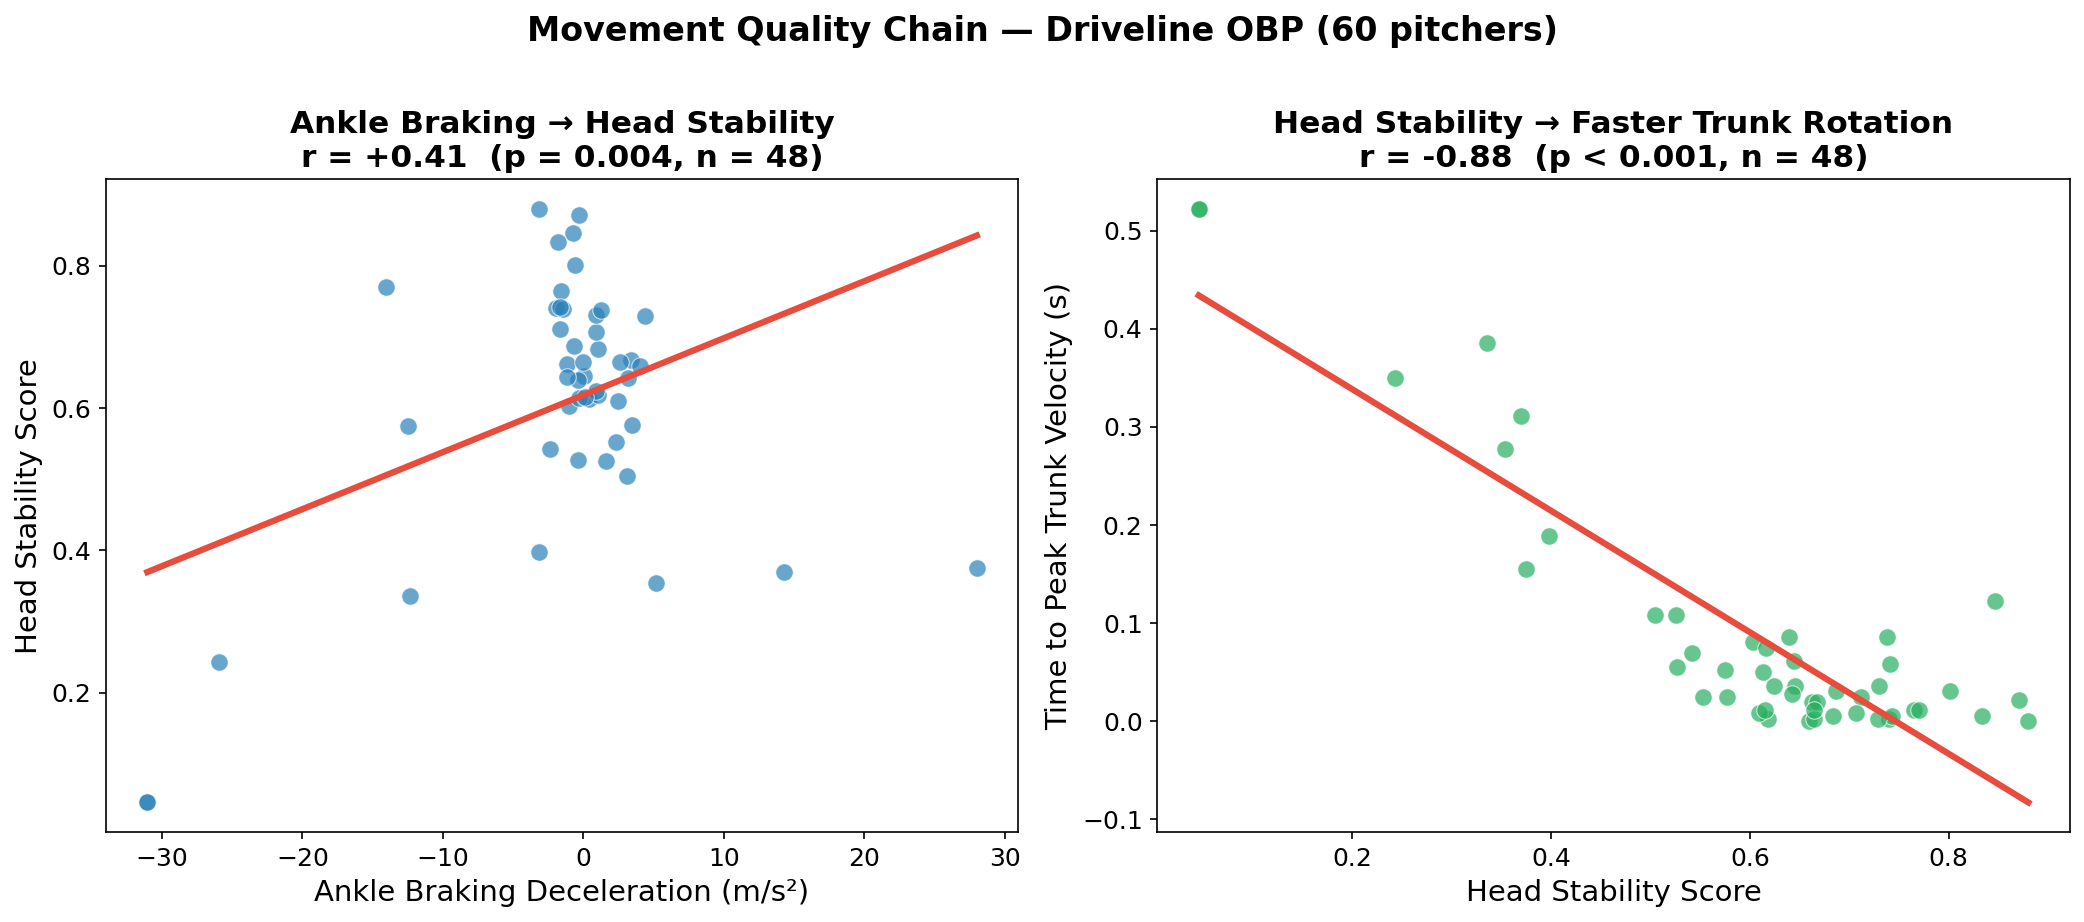
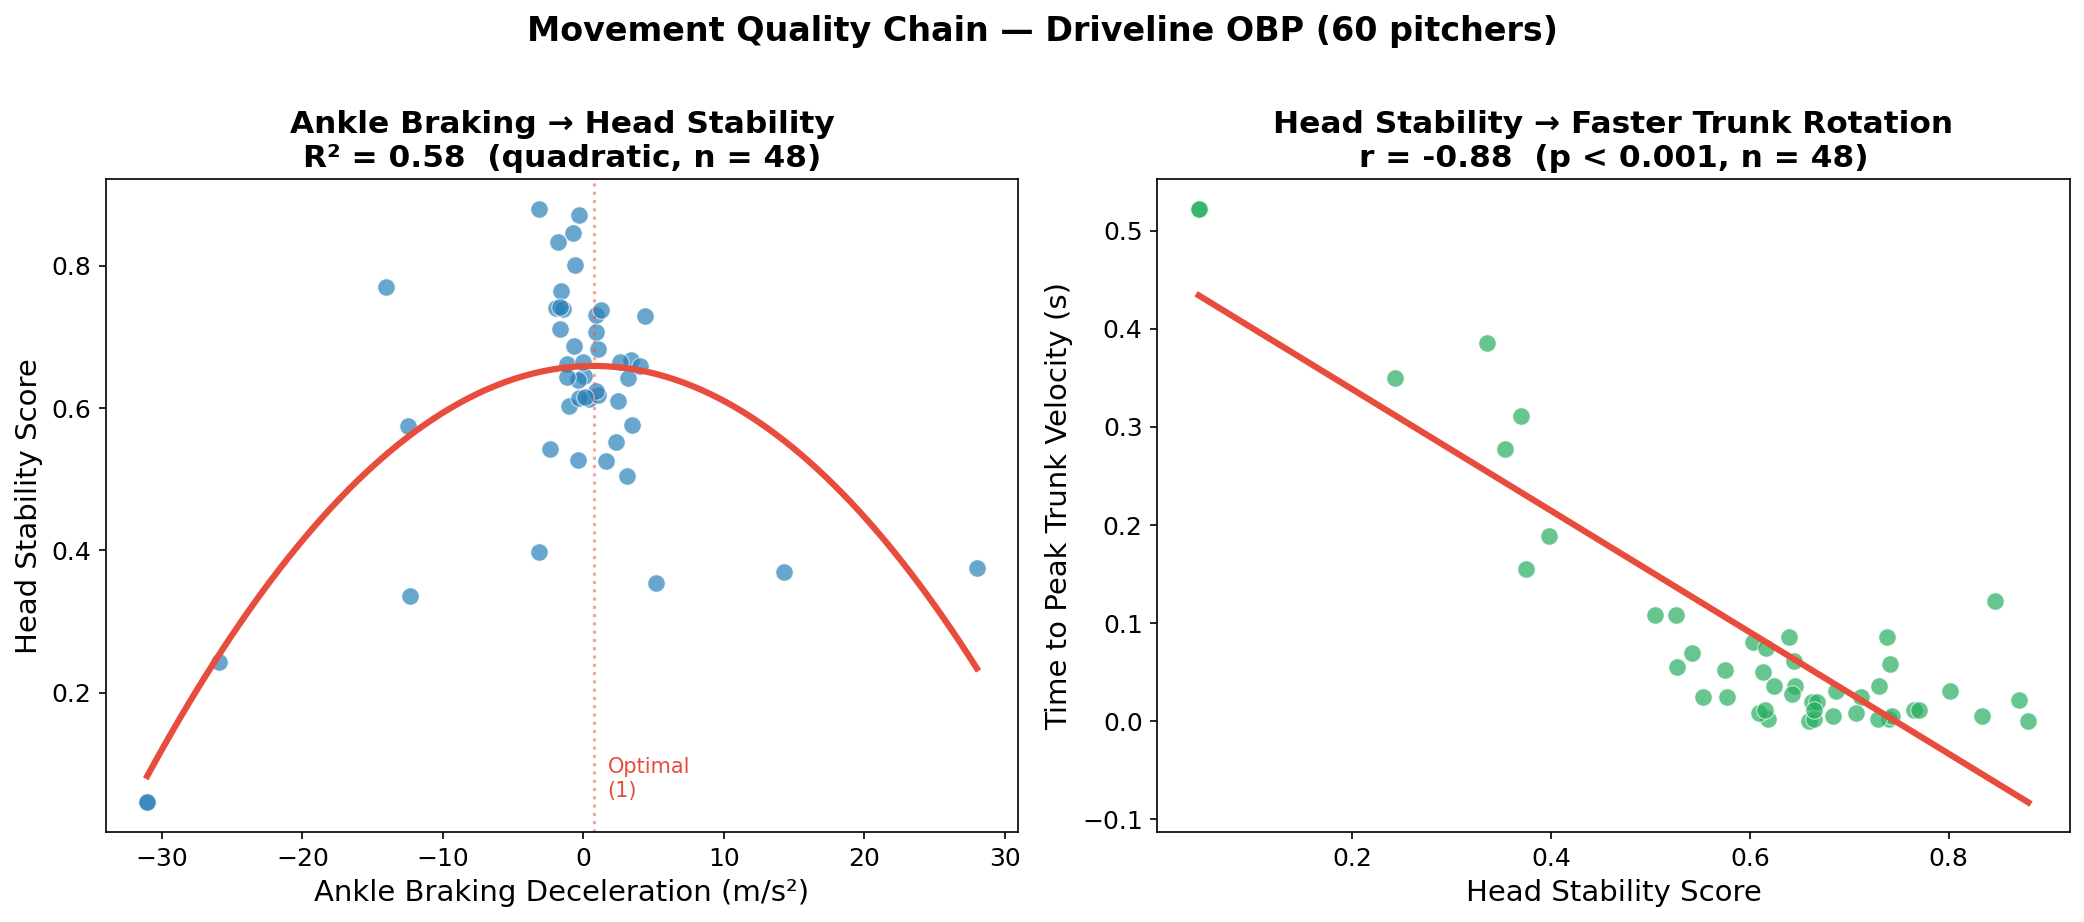
Fix left scatter: quadratic fit (R2=0.58) instead of linear (r=0.41)
Ankle braking vs head stability is an inverted-U relationship:
too weak = head drifts, too strong = head jerks. Optimal at ~0.7.

diff --git a/plot_head_stability_simple.py b/plot_head_stability_simple.py
@@ -1,6 +1,6 @@
 """Simple 2-panel scatter plot for README.
 
-Left:  Ankle Braking -> Head Stability (r=+0.41)
+Left:  Ankle Braking -> Head Stability (quadratic, R2=0.58)
 Right: Head Stability -> Time to Peak Trunk Velocity (r=-0.88)
 
 Clean, big fonts, obvious correlation.
@@ -39,13 +39,28 @@ def main():
     r1, p1 = stats.pearsonr(x1, y1)
 
     ax1.scatter(x1, y1, s=70, c="#2980b9", alpha=0.7, edgecolors="white", linewidth=0.5)
-    z1 = np.polyfit(x1, y1, 1)
-    xline1 = np.linspace(x1.min(), x1.max(), 50)
+
+    # Quadratic fit (inverted-U: optimal braking exists)
+    z1 = np.polyfit(x1, y1, 2)
+    xline1 = np.linspace(x1.min(), x1.max(), 100)
     ax1.plot(xline1, np.polyval(z1, xline1), color="#e74c3c", linewidth=3)
+
+    # R-squared for quadratic
+    y1_pred = np.polyval(z1, x1)
+    ss_res = np.sum((y1 - y1_pred) ** 2)
+    ss_tot = np.sum((y1 - np.mean(y1)) ** 2)
+    r2 = 1 - ss_res / ss_tot
+    peak_x = -z1[1] / (2 * z1[0])
+
+    # Mark optimal zone
+    ax1.axvline(peak_x, color="#e74c3c", linestyle=":", alpha=0.5)
+    ax1.text(peak_x + 1, ax1.get_ylim()[0] + 0.05, f"Optimal\n({peak_x:.0f})",
+             fontsize=10, color="#e74c3c", ha="left")
 
     ax1.set_xlabel("Ankle Braking Deceleration (m/s²)", fontsize=14)
     ax1.set_ylabel("Head Stability Score", fontsize=14)
-    ax1.set_title(f"Ankle Braking → Head Stability\nr = {r1:+.2f}  (p = {p1:.3f}, n = {len(d1)})",
+    ax1.set_title(f"Ankle Braking → Head Stability\n"
+                  f"R² = {r2:.2f}  (quadratic, n = {len(d1)})",
                   fontsize=15, fontweight="bold")
     ax1.tick_params(labelsize=12)
 

diff --git a/README.md b/README.md
@@ -54,7 +54,7 @@ Joint angles extracted from C3D motion capture data across the full pitching/hit
 
 ![Head Stability Scatter](data/output/head_stability_scatter.png)
 
-The human head weighs ~5 kg. When the lead foot brakes and the head stops drifting forward, it becomes a stable axis of rotation. The trunk rotates efficiently around this fixed point, reaching peak velocity faster (r = -0.88).
+The human head weighs ~5 kg. Braking has an optimal range — too weak and the head drifts, too strong and it jerks (quadratic R² = 0.58, vs linear r = 0.41). When braking is right and the head stabilizes, the trunk reaches peak rotational velocity dramatically faster (r = -0.88).
 
 > The same analysis works for hitting (front foot block → bat speed).
 
